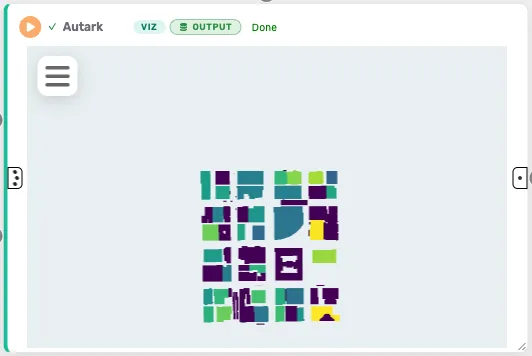
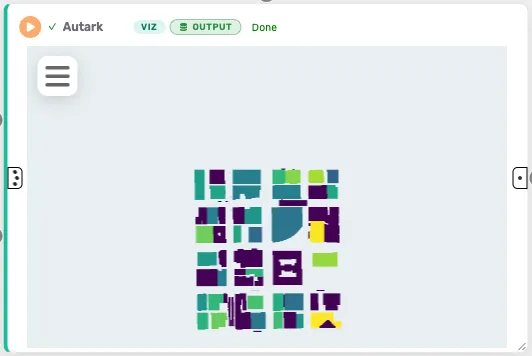
Map stills re-taken with maps framed and legends titled

Changed region(s): [[0.3609, 0.4635, 0.6617, 0.927]]

diff --git a/site/scenarios.md b/site/scenarios.md
@@ -83,7 +83,7 @@ The node starts in Difference when its two inputs are rasters or layers, and in 
 
 <GuideFigure src="/media/scenarios/compare-chart.webp" alt="A Compare Scenarios node in Chart, with two lollipops" caption="Compare Scenarios in Chart: the mean sunlight of Baseline and Twice as tall as lollipops. Above it, the node warns that one scenario reads fixed context the other does not." :w="560" :h="420" />
 
-<GuideFigure src="/media/scenarios/compare-difference.webp" alt="A Compare Scenarios node in Difference, with a raster map" caption="Compare Scenarios in Difference: two rasters on one grid subtracted cell by cell, a darker red where the difference is larger." :w="560" :h="420" />
+<GuideFigure src="/media/scenarios/compare-difference.webp" alt="A Compare Scenarios node in Difference, with a raster map" caption="Compare Scenarios in Difference: two rasters on one grid subtracted cell by cell, from dark purple where the difference is lowest to yellow where it is highest." :w="560" :h="420" />
 
 The **What differs** tab lists the levers that differ between the scenarios: the widget values and code lines that changed, and each scenario's Edit Features edits. A node and its copies count as one lever. Above the tabs, the node warns when the scenarios read different fixed context, when an input comes from a node in no scenario, and when two inputs come from one scenario.
 

diff --git a/site/scout.md b/site/scout.md
@@ -29,7 +29,7 @@ The four dataflows are in the examples every account starts with, under **By sou
 
 Example 24, "SCOUT building rasters", runs them on the buildings of SCOUT's Chicago Loop example: the buildings in 3D, the height mosaic and the summer shadow on Autark maps, and the mean and median shadow.
 
-<GuideFigure src="/media/scout/buildings-3d.webp" alt="An Autark map of the Chicago Loop's buildings in 3D" caption="Example 24: the Loop&#x27;s buildings in 3D, colored by their height in metres, zoomed in with the mouse wheel." :w="532" :h="356" />
+<GuideFigure src="/media/scout/buildings-3d.webp" alt="An Autark map of the Chicago Loop's buildings in 3D" caption="Example 24: the Loop&#x27;s buildings in 3D, colored by their height in metres." :w="532" :h="356" />
 
 <GuideFigure src="/media/scout/height-mosaic.webp" alt="An Autark map of the height mosaic" caption="The height mosaic Rasterize Buildings makes of them: one raster on SCOUT&#x27;s zoom-16 tile grid, each cell a height." :w="532" :h="356" />
 
